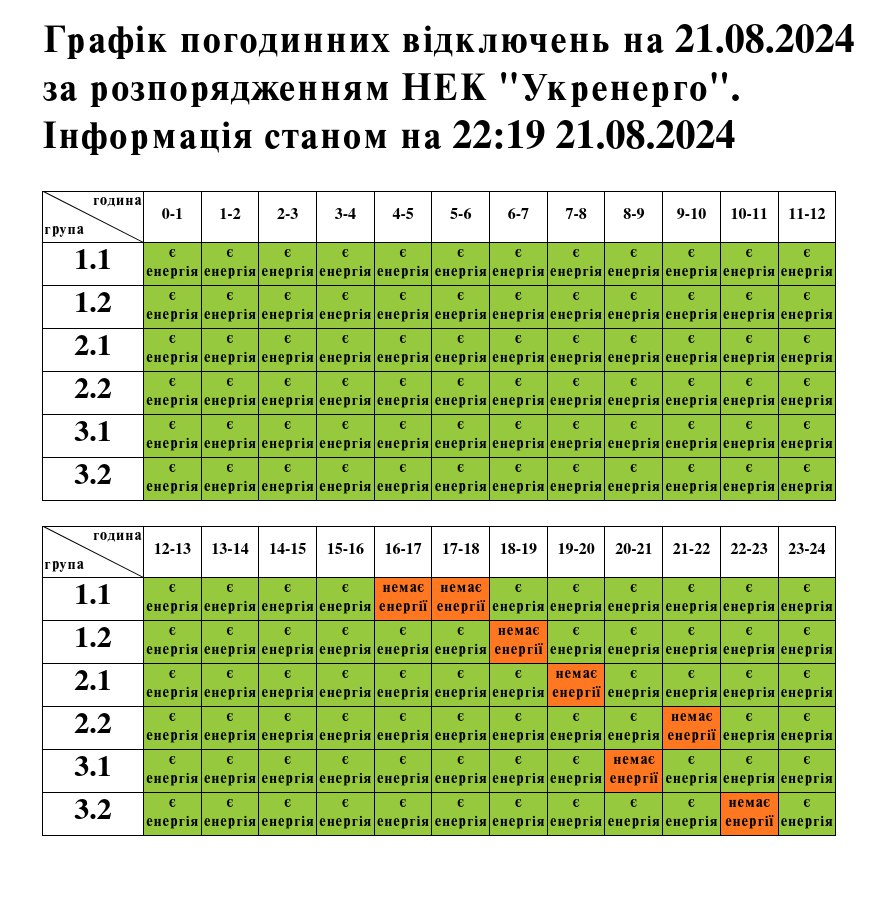
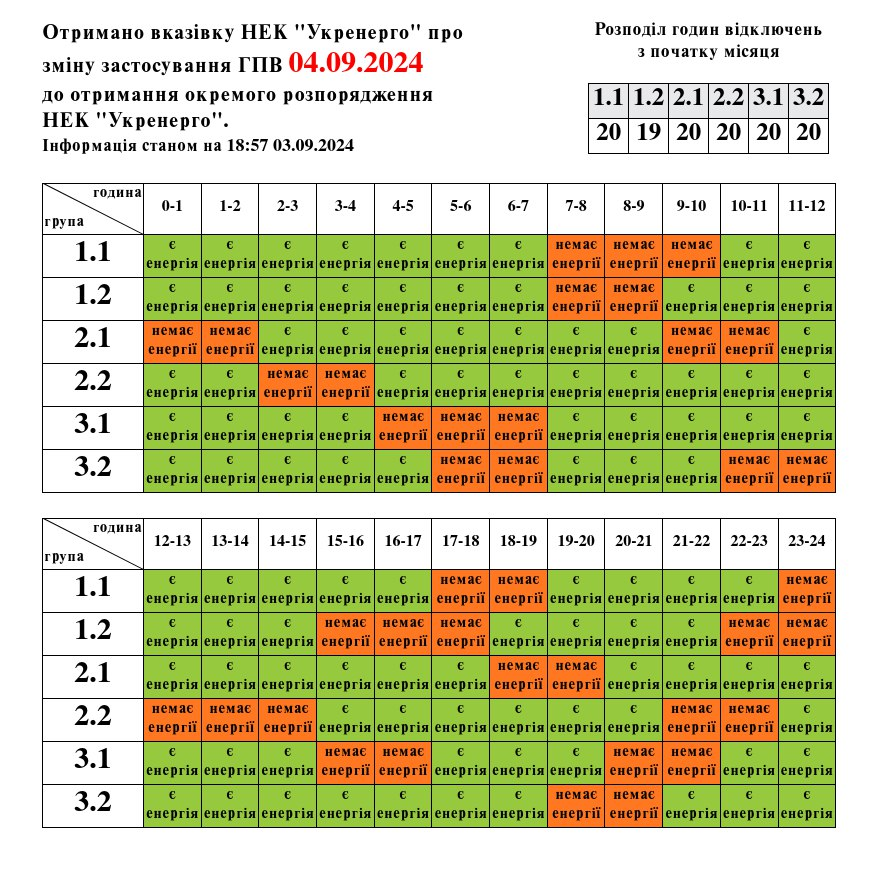
compliance with the new image format

diff --git a/detection.py b/detection.py
@@ -4,7 +4,17 @@ from datetime import date, datetime
 import pytesseract
 from PIL import Image
 
-from const import HOUR_COUNT, GROUP_COUNT, TABLES_DIFF, X_OFFSET, COLUMN_WIDTH, Y_OFFSET, ROW_HEIGHT, GROUPS, DATE_BOX
+from const import (
+    COLUMN_WIDTH,
+    DATE_BOX,
+    GROUP_COUNT,
+    GROUPS,
+    HOUR_COUNT,
+    ROW_HEIGHT,
+    TABLES_DIFF,
+    X_OFFSET,
+    Y_OFFSET,
+)
 
 
 def get_coordinates_map() -> list[tuple[int, int]]:
@@ -12,7 +22,7 @@ def get_coordinates_map() -> list[tuple[int, int]]:
     tables_split_at = 12
     for hour in range(HOUR_COUNT):
         for group in range(GROUP_COUNT):
-            additional_offset = TABLES_DIFF if hour > tables_split_at else 0
+            additional_offset = TABLES_DIFF if hour >= tables_split_at else 0
             result.append(
                 (
                     X_OFFSET + COLUMN_WIDTH * (hour % tables_split_at),
@@ -29,9 +39,7 @@ def detect_on_off(filename: str) -> dict[str, list[bool]]:
     coordinates_map = get_coordinates_map()
     for i in range(GROUP_COUNT):
         for j in range(HOUR_COUNT):
-            status[GROUPS[i]].append(
-                pixels[*coordinates_map[i + GROUP_COUNT * j]][0] < 200
-            )
+            status[GROUPS[i]].append(pixels[*coordinates_map[i + GROUP_COUNT * j]][0] < 200)
     return status
 
 
@@ -52,7 +60,7 @@ if __name__ == '__main__':
 
     for i in range(GROUP_COUNT):
         for j in range(HOUR_COUNT):
-            # print(coordinates_map[i + image_params.group_count * j], end=' ')
+            # print(coordinates_map[i + GROUP_COUNT * j], end=' ')
             print('🟩' if pixels[*coordinates_map[i + GROUP_COUNT * j]][0] < 200 else '🟥', end='')
         print()
 

diff --git a/const.py b/const.py
@@ -1,9 +1,13 @@
-X_OFFSET: int = 147
-Y_OFFSET: int = 260
+# Basically a reference point from which all the other coordinates are calculated
+X_OFFSET: int = 146
+Y_OFFSET: int = 244
+
 COLUMN_WIDTH: int = 58
 ROW_HEIGHT: int = 43
-TABLES_DIFF: int = 335  # case when there are two tables on a picture
 GROUPS: tuple[str, ...] = ('1.1', '1.2', '2.1', '2.2', '3.1', '3.2')
 GROUP_COUNT: int = len(GROUPS)
 HOUR_COUNT: int = 24
-DATE_BOX: tuple[int, int, int, int] = 664, 0, 879, 71  # x_top, y_top, x_bottom, y_bottom
+DATE_BOX: tuple[int, int, int, int] = 282, 42, 439, 79  # x_top, y_top, x_bottom, y_bottom
+
+# Case when there are two tables on a picture
+TABLES_DIFF: int = 335
